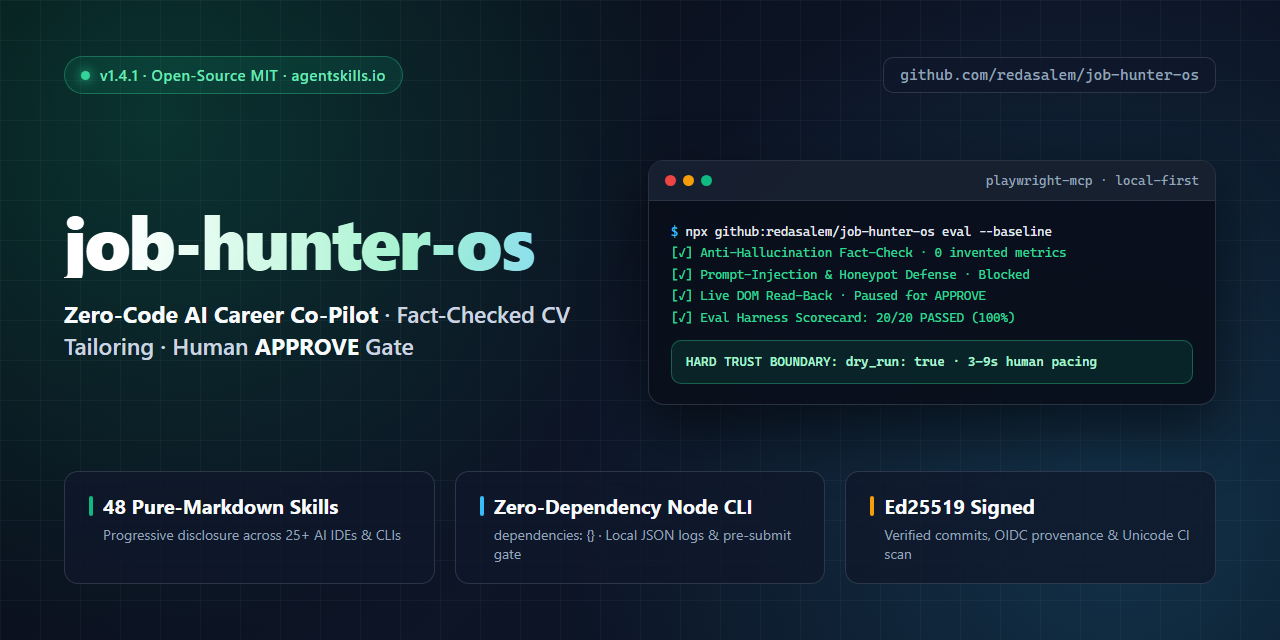
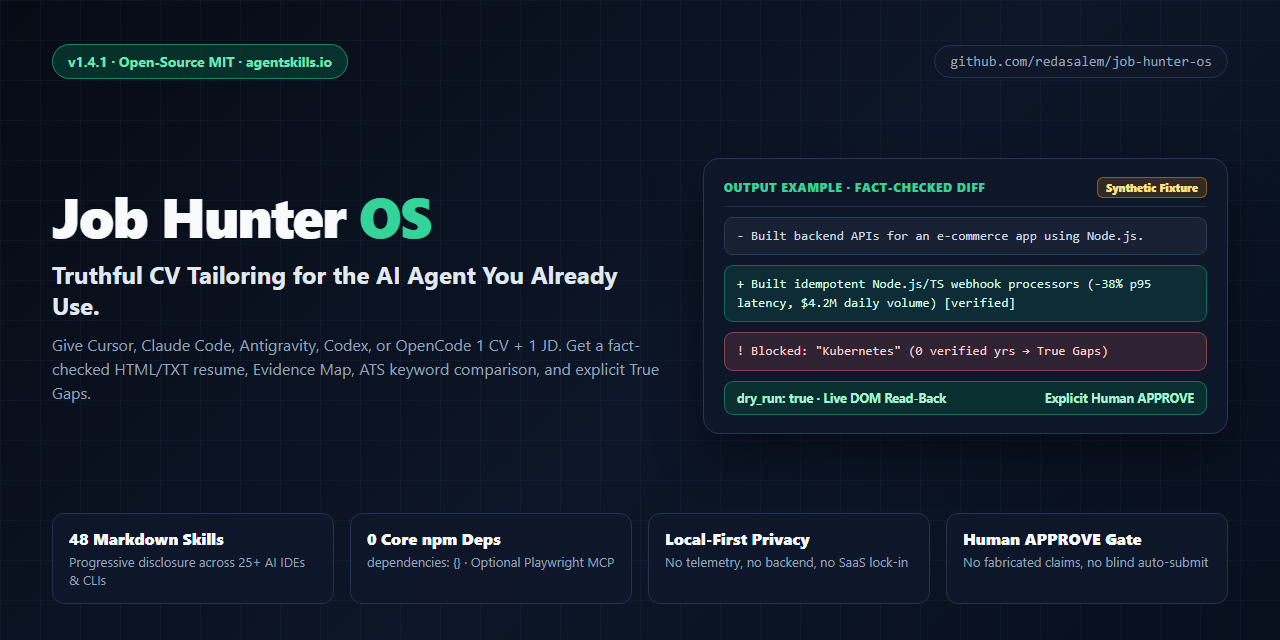
chore(release): finalize release readiness audit, tablet layout, audit label & social preview

Changed region(s): [[0.0, 0.0, 1.0, 1.0], [0.6875, 0.0625, 0.9375, 0.125]]

diff --git a/docs/demo-dashboard.html b/docs/demo-dashboard.html
@@ -246,8 +246,11 @@
       body { padding: 16px 12px 32px; }
       input[type="search"] { min-width: 0; width: 100%; }
       .controls { width: 100%; }
-      .kpi-grid { grid-template-columns: 1fr; }
+      .kpi-grid { grid-template-columns: repeat(2, minmax(0, 1fr)); }
       .brand p, .banner { overflow-wrap: anywhere; }
+    }
+    @media (max-width: 520px) {
+      .kpi-grid { grid-template-columns: 1fr; }
     }
   </style>
 </head>

diff --git a/templates/analytics-dashboard.html b/templates/analytics-dashboard.html
@@ -242,8 +242,11 @@
       body { padding: 16px 12px 32px; }
       input[type="search"] { min-width: 0; width: 100%; }
       .controls { width: 100%; }
-      .kpi-grid { grid-template-columns: 1fr; }
+      .kpi-grid { grid-template-columns: repeat(2, minmax(0, 1fr)); }
       .brand p, .banner { overflow-wrap: anywhere; }
+    }
+    @media (max-width: 520px) {
+      .kpi-grid { grid-template-columns: 1fr; }
     }
   </style>
 </head>

diff --git a/CHANGELOG.md b/CHANGELOG.md
@@ -5,6 +5,24 @@ All notable changes to **`job-hunter-os`** will be documented in this file.
 The format is based on [Keep a Changelog](https://keepachangelog.com/en/1.1.0/),
 and this project adheres to [Semantic Versioning](https://semver.org/spec/v2.0.0.html).
 
+## [Unreleased]
+
+### Added
+- **Primary Output-Focused CV Tailoring Demo (`docs/index.html`):** Added a standalone, zero-external-request GitHub Pages demo illustrating 3 synthetic scenarios (`Strong Match`, `Stretch Match`, and `Prompt-Injection Trap`) with Before/After diffs, Evidence Maps, ATS keyword coverage comparisons, isolated **True Gaps**, and explicit `APPROVE` status.
+- **Privacy-Safe CV Hygiene Share Cards (`bin/cli.mjs audit --share`):** Generates local `logs/exports/cv-hygiene-card.svg` and `logs/exports/cv-hygiene-card.md` artifacts with raw CV text, personal names, emails, phones, URLs, and filenames excluded.
+- **Universal `/quick-tailor` Discovery (`commands/quick-tailor.md`, `.agents/skills/quick-tailor/SKILL.md`):** Added Claude Code command and `agentskills.io` wrapper entrypoints (enforced in `.github/workflows/validate-repo.yml`) so `/quick-tailor` is discoverable after local and global `init`.
+
+### Changed
+- **Unified Product Positioning & Output-First Landing Pages (`README.md`, `README.ar.md`, `package.json`, `assets/demo-preview.png`, `assets/social-preview.png`):** Positioned `job-hunter-os` consistently around *"Truthful CV Tailoring for the AI Agent You Already Use"*, rebuilt the README hero, architecture diagram, and output-focused preview image using synthetic fixture data.
+- **Fast-Start `init` Onboarding Sequence (`bin/cli.mjs`, `scripts/install.{sh,ps1}`):** Updated post-init guidance to recommend `/demo` (no CV, no browser login) -> `/quick-tailor` (1 real CV + 1 JD, no browser login) -> optional `login` + `/setup`.
+- **Unconditional Job-Specific Human `APPROVE` Gate (`skills/04-fill-and-apply.md`, `skills/skills-manifest.json`, `skills/meta-structured-debugging.md`, `skills/13-company-due-diligence.md`, `adapters/apps/hermes-pi-factory-openclaw.md`, `config/guardrails.yaml`):** Removed conflicting `auto_high_confidence` bypass phrasing so every live submission requires explicit job-specific `APPROVE` after a fresh Live DOM Read-Back Table, and any later modification invalidates approval.
+- **Honest Enforcement & Audit Terminology (`docs/execution-safety.md`, `bin/cli.mjs`, `CONTRIBUTING.md`, `docs/repository-audit.md`, `roadmap.md`, IDE rules):** Explicitly distinguished **Deterministic CLI Enforcement** (`bin/cli.mjs`) from **Agent Workflow Requirements** (`AGENTS.md`, `skills/*.md`), replaced misleading `"verified numeric metrics"` audit wording with `"Detected Numeric Metrics"` + heuristic disclaimer, and updated `CONTRIBUTING.md` with three concrete contribution paths.
+- **Secondary Application Tracker Clarity (`docs/demo-dashboard.html`, `templates/analytics-dashboard.html`):** Positioned the Kanban dashboard as a secondary capability with explicit synthetic-sample vs. local-user-data banners, `Sample` card tags, `example.invalid` sample URLs, inline JSON error alerts, `Clear` / `Reset` controls, URL scheme sanitization against `javascript:` links, and responsive mobile/tablet grids.
+
+### Fixed
+- **CV Audit Bullet-Count Regex Bug (`bin/cli.mjs`):** Eliminated stateful `/g` regex matching across bullets (`metricSingleRe` vs. `metricGlobalRe`) so bullets containing numeric metrics are counted accurately.
+- **Dynamic Proof & CLI Metadata (`bin/cli.mjs`):** Removed hardcoded `v1.4.1` and ATS fixture labels from `eval`/`proof`/`--help`, added `devDependencies` count (`0 / 0`) to `proof`, and flagged detected secret tokens accurately in the `audit` hygiene table.
+
 ## [1.4.1] - 2026-11-19 — Instant Local CV Audit CLI, Runtime Clarity & Above-the-Fold Diff
 
 ### Added

diff --git a/mcp/README.md b/mcp/README.md
@@ -1,17 +1,17 @@
-# Connect local MCP tools for zero-code job hunting
+# Connect Optional Local MCP Tools
 
-The canonical MCP definition is [`mcp/mcp.template.json`](mcp.template.json). Paste it into your IDE's MCP configuration with `./browser-profile` pointing to your local clone (or agent folder):
+Fast-start CV tailoring workflows (`/demo` and `/quick-tailor`) and offline CLI tools (`audit`, `proof`, `eval`, `pre-submit`) work without any MCP server. When you are ready for browser-assisted discovery, PDF export, or Notion sync, the canonical MCP definition is [`mcp/mcp.template.json`](mcp.template.json). Paste it into your IDE's MCP configuration with `./browser-profile` pointing to your local clone (or agent folder):
 
 ```json
 {
   "mcpServers": {
     "playwright": {
       "command": "npx",
-      "args": ["@playwright/mcp@latest", "--user-data-dir=./browser-profile"]
+      "args": ["-y", "@playwright/mcp@0.0.86", "--caps=pdf", "--user-data-dir=./browser-profile"]
     },
     "notion": {
       "command": "npx",
-      "args": ["-y", "@notionhq/notion-mcp-server"],
+      "args": ["-y", "@notionhq/notion-mcp-server@2.6.1"],
       "env": {
         "NOTION_TOKEN": "${NOTION_TOKEN}"
       }
@@ -20,7 +20,7 @@ The canonical MCP definition is [`mcp/mcp.template.json`](mcp.template.json). Pa
 }
 ```
 
-- **Playwright MCP (required for browser workflows):** Launches Chromium with persistent `./browser-profile` so you log in manually once and keep sessions private on disk. Never commit `browser-profile/`.
+- **Playwright MCP (optional, required only for browser workflows):** Launches Chromium with persistent `./browser-profile` so you log in manually once and keep sessions private on disk. Never commit `browser-profile/`.
 - **Notion MCP (optional):** Off by default (`storage_adapters.notion_mcp: false` in `config/guardrails.yaml`). If you want Notion tracking, set `NOTION_TOKEN` in your IDE's secret/env config, share a parent page with your Notion integration, and record your database IDs in `context/preferences.yaml`. Local JSON under `logs/` is always primary.
 
 ## Manual login once

diff --git a/adapters/apps/opencode-and-kilocode.md b/adapters/apps/opencode-and-kilocode.md
@@ -1,14 +1,14 @@
 # OpenCode v2 & Kilo Code Adapter
 
-`job-hunter-os` works out of the box in **OpenCode v2** and **Kilo Code** with zero code installation.
+`job-hunter-os` works out of the box in **OpenCode v2** and **Kilo Code** via its Markdown-first skills and `.agents/skills/*/SKILL.md` standard (paired with the optional zero-dependency CLI in `bin/cli.mjs`).
 
 ## OpenCode v2 Setup
 1. Root `opencode.json` automatically wires:
    - `instructions`: `["AGENTS.md", "skills/REGISTRY.md"]` (Progressive Disclosure).
-   - `mcp.playwright`: `@playwright/mcp@latest --user-data-dir=./browser-profile`.
+   - `mcp.playwright`: `@playwright/mcp@0.0.86 --caps=pdf --user-data-dir=./browser-profile` (needed only for browser workflows like `/setup` and `/daily-run`).
    - `mcp.notion`: disabled by default (`enabled: false`); set `NOTION_TOKEN` in your environment and switch `enabled: true` only when opting into Notion sync.
 2. OpenCode natively auto-discovers every skill in `.agents/skills/*/SKILL.md` (and `.opencode/skills/` if you prefer copying/linking them there).
-3. Run `/skills` in OpenCode to see all discovered `job-hunter-os` workflows, or start with `/setup`.
+3. Run `/skills` in OpenCode to see all discovered `job-hunter-os` workflows. Start with `/demo` (no personal data or browser login) or `/quick-tailor` (1 real CV + 1 JD, no browser login), then `/setup` when ready for browser-assisted workflows.
 
 ## Kilo Code Setup
 1. Kilo Code discovers `AGENTS.md` and `.agents/skills/*/SKILL.md` automatically at the repository root.

diff --git a/adapters/apps/devin-desktop.md b/adapters/apps/devin-desktop.md
@@ -5,8 +5,8 @@
 ## Setup in Devin Desktop
 1. Open the cloned `job-hunter-os/` folder in Devin Desktop.
 2. Devin Desktop automatically loads `.windsurfrules`, `AGENTS.md`, and `.agents/skills/*/SKILL.md`.
-3. Add the Playwright MCP and optional Notion MCP definitions from `mcp/mcp.template.json` into your Devin Desktop / ACP MCP configuration (keeping `--user-data-dir=./browser-profile` pointed to your local repository path).
-4. Start in chat with `/setup` (or `"Read AGENTS.md and set up my profile"`).
+3. Optionally add the Playwright MCP and Notion MCP definitions from `mcp/mcp.template.json` into your Devin Desktop / ACP MCP configuration (keeping `--user-data-dir=./browser-profile` pointed to your local repository path) when ready for browser-assisted workflows.
+4. Start in chat with `/demo` (no personal data or browser login) or `/quick-tailor` (1 real CV + 1 JD, no browser login). Run `/setup` only when ready for the full multi-platform Career OS.
 
 ## Safety Rules
 - Keep `dry_run: true` until your first full run is verified.
